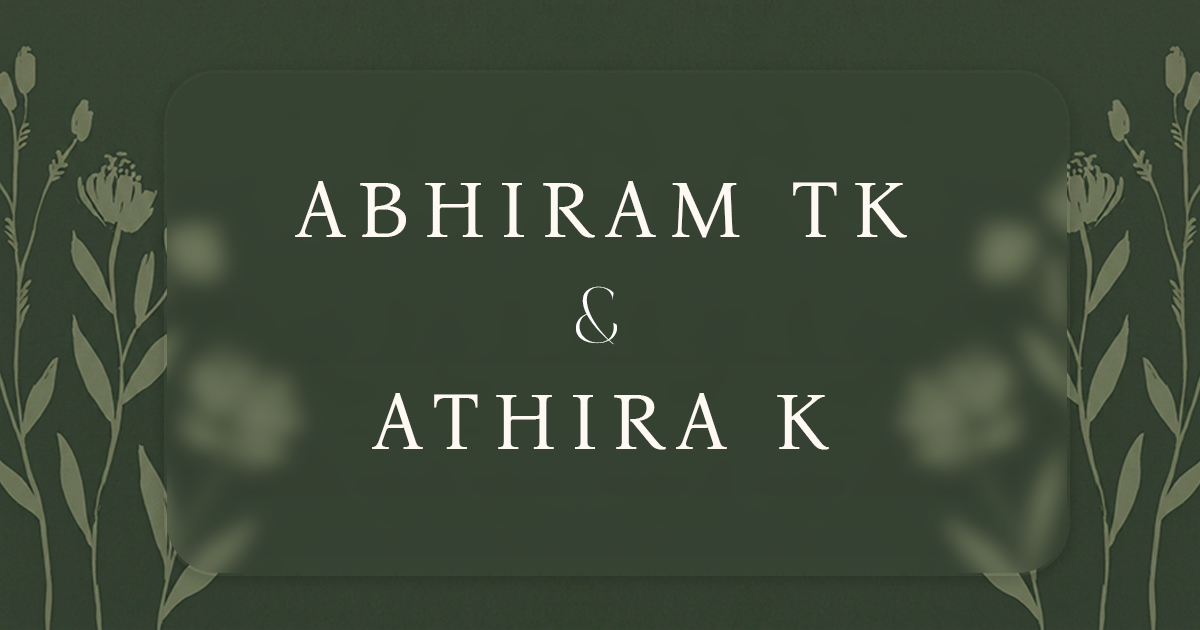
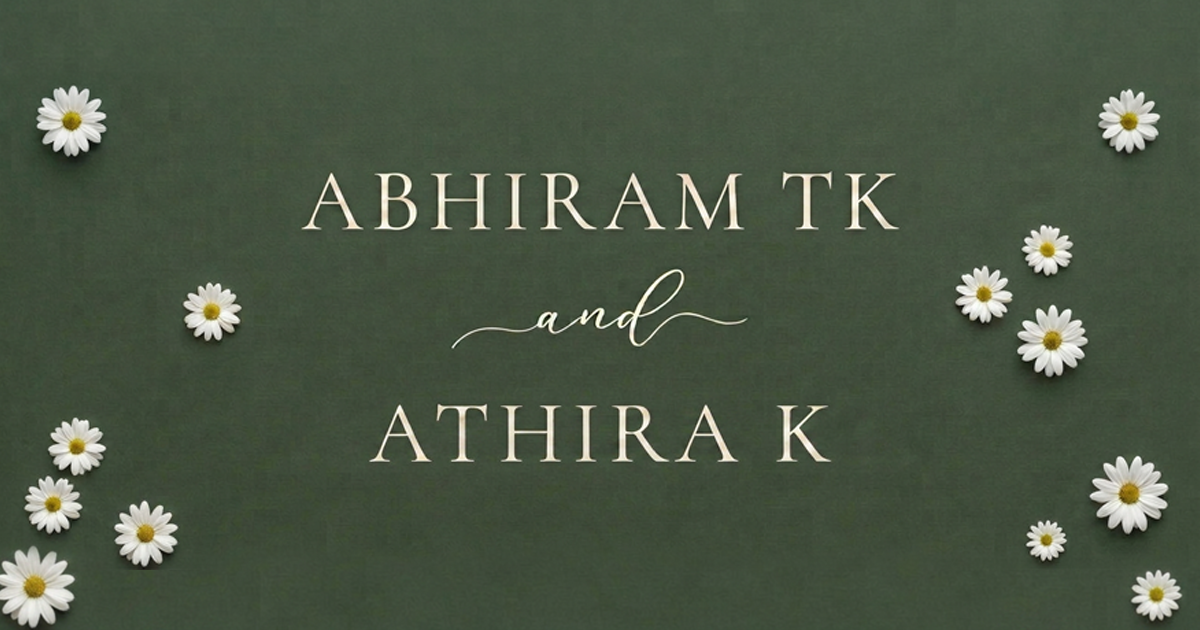
Update Open Graph image to floral daisy design

diff --git a/app/layout.tsx b/app/layout.tsx
@@ -26,7 +26,7 @@ export const metadata: Metadata = {
     title: "Abhiram TK & Athira K — Wedding Invitation",
     description: "Join us to celebrate the wedding of Abhiram TK & Athira K, November 2026.",
     type: "website",
-    images: [{ url: "/assets/og-image.png?v=3", width: 1200, height: 630 }],
+    images: [{ url: "/assets/og-image.png?v=4", width: 1200, height: 630 }],
   },
   twitter: {
     card: "summary_large_image",
